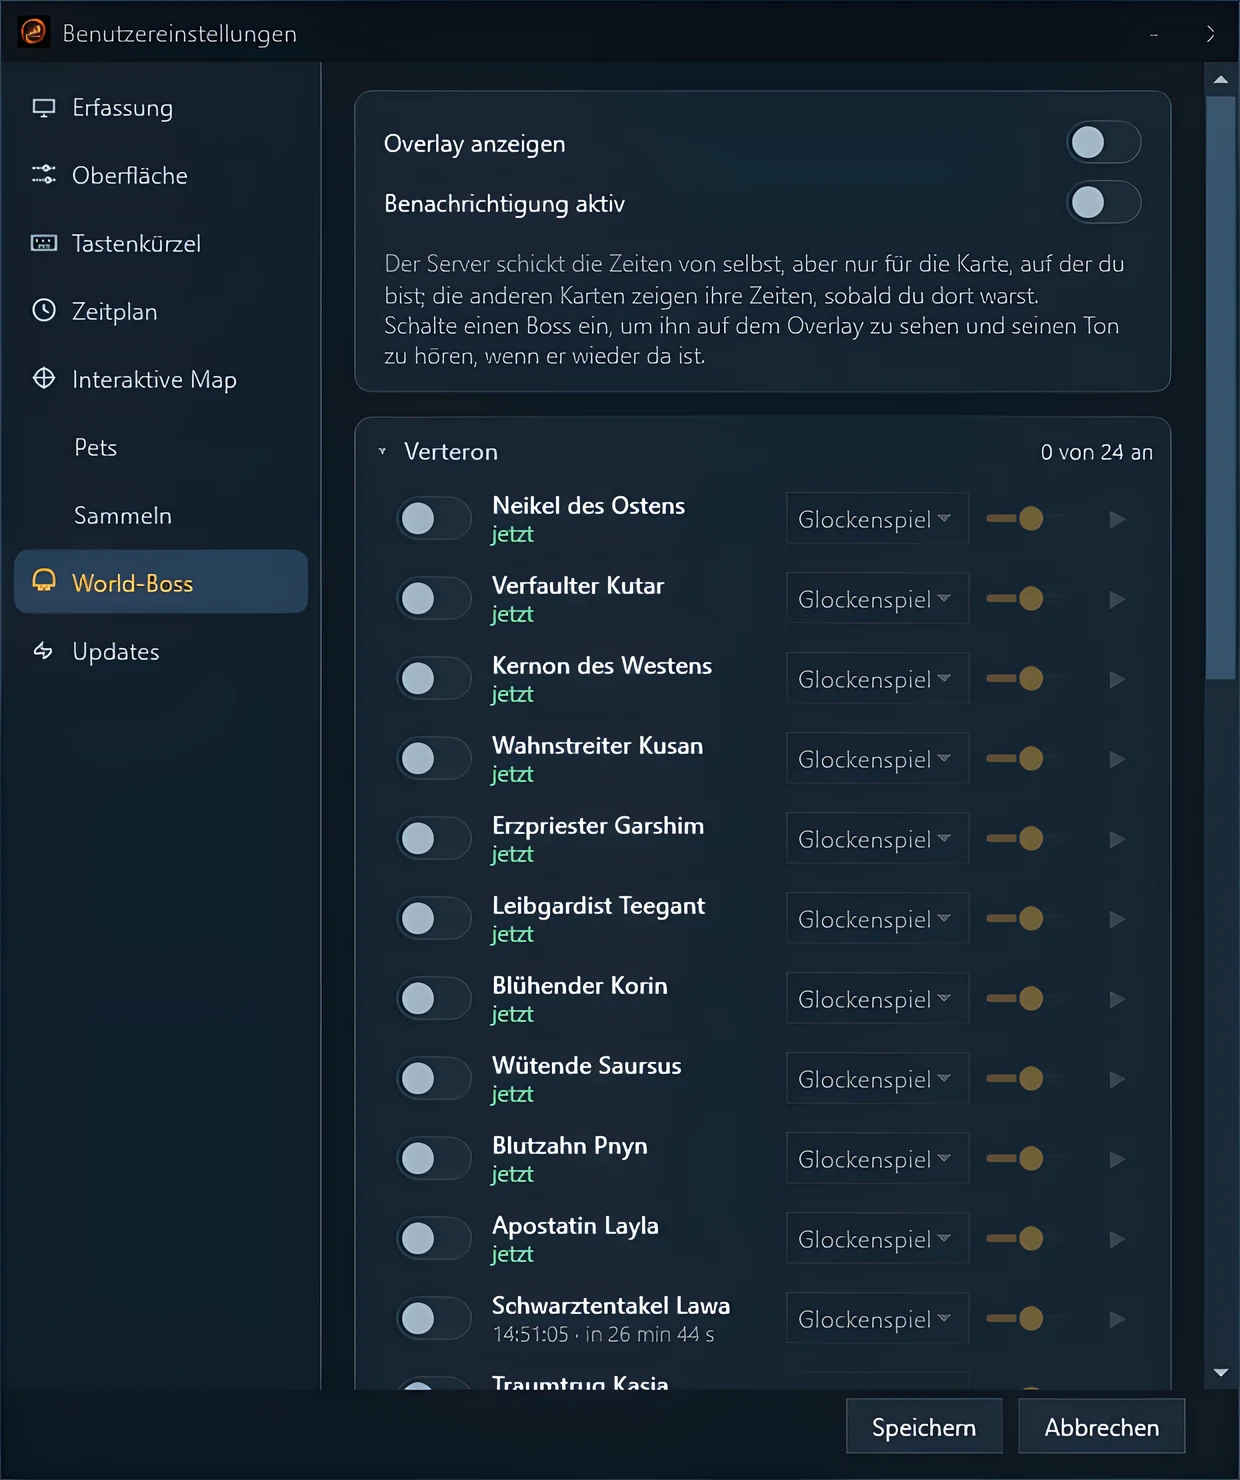
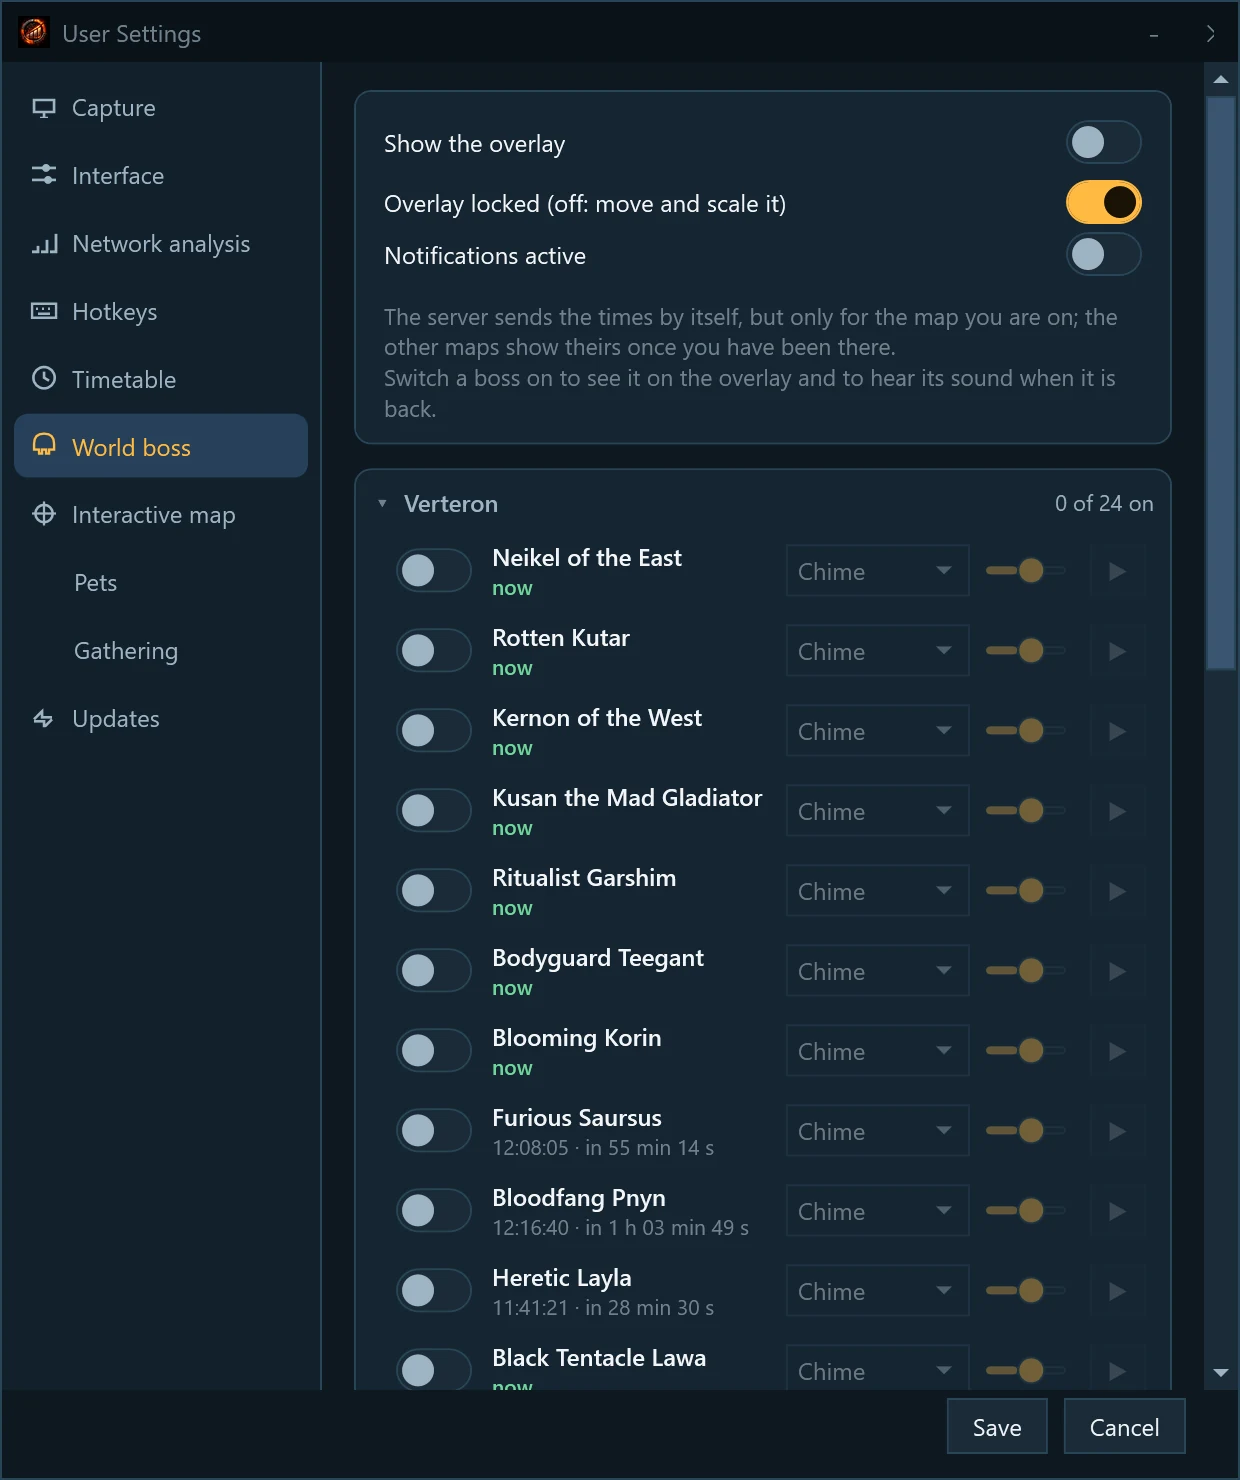
The World Bosses picture on the Features page and in the READMEs shows the English settings page, drawn by the client itself

diff --git a/Client/Program.cs b/Client/Program.cs
@@ -852,7 +852,11 @@ internal static class Program
         app.Resources.MergedDictionaries.Add(
             (System.Windows.ResourceDictionary)System.Windows.Application.LoadComponent(new Uri("/Ui/Styles/Shared.xaml", UriKind.Relative)));
         var settings = Ui.MeterSettings.Load();
-        if (settings.Language.Length > 0)
+        if (Environment.GetEnvironmentVariable("AIONDPS_LANG") is { Length: > 0 } forcedLanguage)
+        {
+            Ui.LocalizationManager.Instance.Language = forcedLanguage; // pictures for the docs in a chosen language, whatever the user's settings say
+        }
+        else if (settings.Language.Length > 0)
         {
             Ui.LocalizationManager.Instance.Language = settings.Language; // so a layout can be checked in every language
         }

diff --git a/README.ru.md b/README.ru.md
@@ -132,6 +132,10 @@
 берётся прямо из игры; сервер присылает его для карты, на которой вы находитесь, а для остальных карт оно
 показывается после того, как вы там побываете. Звук и громкость задаются для каждого босса, по регионам.
 
+<p align="center">
+  <img src="Web-Frontend/images/features/worldboss@2x.webp" width="380" alt="Настройки мировых боссов: каждый полевой босс по картам со временем возвращения, переключатель, звук и громкость">
+</p>
+
 ### Сетевой оверлей
 
 Пинг, джиттер, трафик, потеря пакетов и время онлайн — по трафику, который ваш ПК

diff --git a/README.zh-TW.md b/README.zh-TW.md
@@ -106,6 +106,10 @@
 
 開啟某個野外首領後，即可在浮動層上看到它的計時，並在它出現的那一刻聽到它的音效。時間直接來自遊戲；伺服器會傳送您所在地圖的時間，其他地圖則在您去過之後才會顯示。音效與音量依首領設定，並依地區分組。
 
+<p align="center">
+  <img src="Web-Frontend/images/features/worldboss@2x.webp" width="380" alt="世界首領設定：依地圖列出每個野外首領的重生時間，可開關並設定音效與音量">
+</p>
+
 ### 網路浮動層
 
 Ping、抖動、流量、封包遺失，以及您已上線多久，皆由您電腦本來就會收到的流量量測而得。隨著連線品質變差，數值會由綠轉紅。可選擇想要的行、將其鎖定在原位，並以快速鍵開啟或關閉。

diff --git a/README.fr.md b/README.fr.md
@@ -135,6 +135,10 @@ Activez un boss de terrain pour voir son minuteur sur l'overlay et entendre son 
 horaires viennent directement du jeu ; le serveur les envoie pour la carte où vous vous trouvez, les autres cartes
 affichent les leurs une fois que vous y êtes passé. Son et volume se règlent par boss, regroupés par région.
 
+<p align="center">
+  <img src="Web-Frontend/images/features/worldboss@2x.webp" width="380" alt="Réglages des boss mondiaux : chaque boss de terrain par carte avec son temps de réapparition, un interrupteur, un son et un volume">
+</p>
+
 ### Overlay réseau
 
 Ping, gigue, trafic, perte de paquets et temps passé en ligne, mesurés à partir du trafic que votre PC reçoit

diff --git a/README.es.md b/README.es.md
@@ -133,6 +133,10 @@ Activa un jefe de campo para ver su temporizador en el overlay y oír su sonido 
 provienen directamente del juego; el servidor los envía para el mapa en el que estás, y los demás mapas muestran los
 suyos una vez que has estado allí. El sonido y el volumen se ajustan por jefe, agrupados por región.
 
+<p align="center">
+  <img src="Web-Frontend/images/features/worldboss@2x.webp" width="380" alt="Ajustes de jefes de mundo: cada jefe de campo por mapa con su tiempo de reaparición, un interruptor, sonido y volumen">
+</p>
+
 ### Overlay de red
 
 Ping, jitter, tráfico, pérdida de paquetes y cuánto tiempo llevas conectado, medidos a partir del tráfico que tu PC

diff --git a/README.pt.md b/README.pt.md
@@ -132,6 +132,10 @@ Ative um chefe de campo para ver o seu cronômetro no overlay e ouvir o seu som 
 vêm diretamente do jogo; o servidor os envia para o mapa em que você está, e os outros mapas mostram os deles
 depois que você passar por lá. Som e volume são definidos por chefe, agrupados por região.
 
+<p align="center">
+  <img src="Web-Frontend/images/features/worldboss@2x.webp" width="380" alt="Configurações dos chefes mundiais: cada chefe de campo por mapa com o tempo de reaparecimento, um interruptor, som e volume">
+</p>
+
 ### Overlay de rede
 
 Ping, jitter, tráfego, perda de pacotes e há quanto tempo você está online, medidos a partir do tráfego que o seu PC

diff --git a/README.de.md b/README.de.md
@@ -132,6 +132,10 @@ Schalte einen Feldboss ein, um seinen Timer im Overlay zu sehen und seinen Sound
 kommen direkt aus dem Spiel; der Server sendet sie für die Karte, auf der du dich befindest, die anderen Karten zeigen ihre erst,
 nachdem du dort warst. Sound und Lautstärke werden pro Boss eingestellt, gruppiert nach Region.
 
+<p align="center">
+  <img src="Web-Frontend/images/features/worldboss@2x.webp" width="380" alt="Weltboss-Einstellungen: jeder Feldboss nach Karte mit Wiederkehrzeit, Schalter, Ton und Lautstärke">
+</p>
+
 ### Netzwerk-Overlay
 
 Ping, Jitter, Datenverkehr, Paketverlust und wie lange du schon online bist, gemessen am Verkehr, den dein PC

diff --git a/README.md b/README.md
@@ -132,6 +132,10 @@ Switch on a field boss to see its timer on the overlay and hear its sound the mo
 come straight from the game; the server sends them for the map you are on, the other maps show theirs
 once you have been there. Sound and volume are set per boss, grouped by region.
 
+<p align="center">
+  <img src="Web-Frontend/images/features/worldboss@2x.webp" width="380" alt="World boss settings: every field boss by map with its respawn time, a switch, sound and volume">
+</p>
+
 ### Network overlay
 
 Ping, jitter, traffic, packet loss and how long you have been online, measured from the traffic your PC

diff --git a/README.zh.md b/README.zh.md
@@ -124,6 +124,10 @@
 直接来自游戏；服务器会发送您所在地图的时间，其他地图的时间则在您去过之后
 显示。声音和音量按首领设置，并按区域分组。
 
+<p align="center">
+  <img src="Web-Frontend/images/features/worldboss@2x.webp" width="380" alt="世界首领设置：按地图列出每个野外首领的刷新时间，可开关并设置声音和音量">
+</p>
+
 ### 网络悬浮窗
 
 延迟、抖动、流量、丢包以及您已在线的时长，均根据您的电脑
